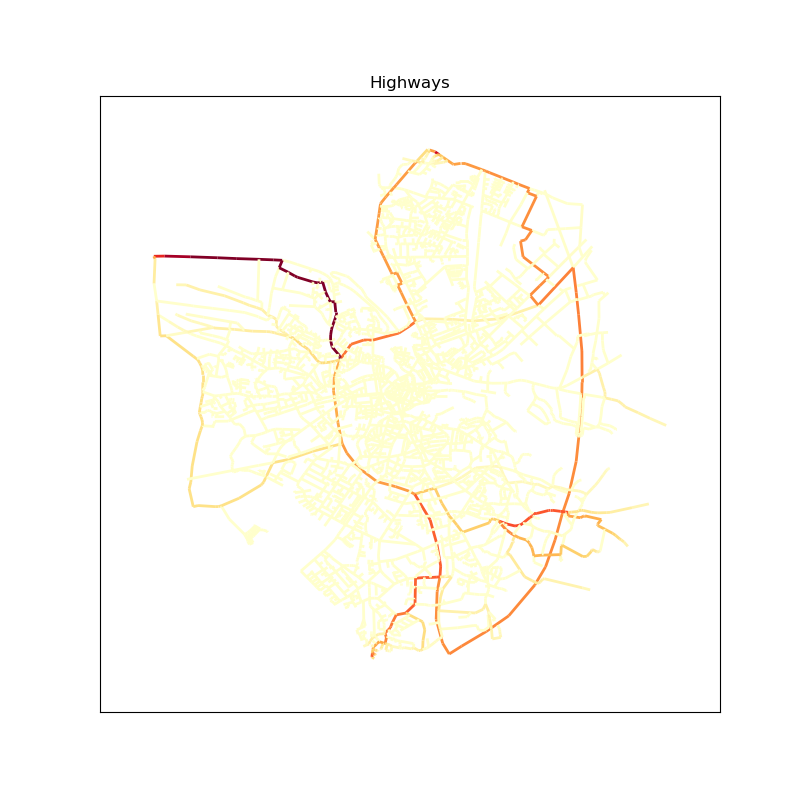
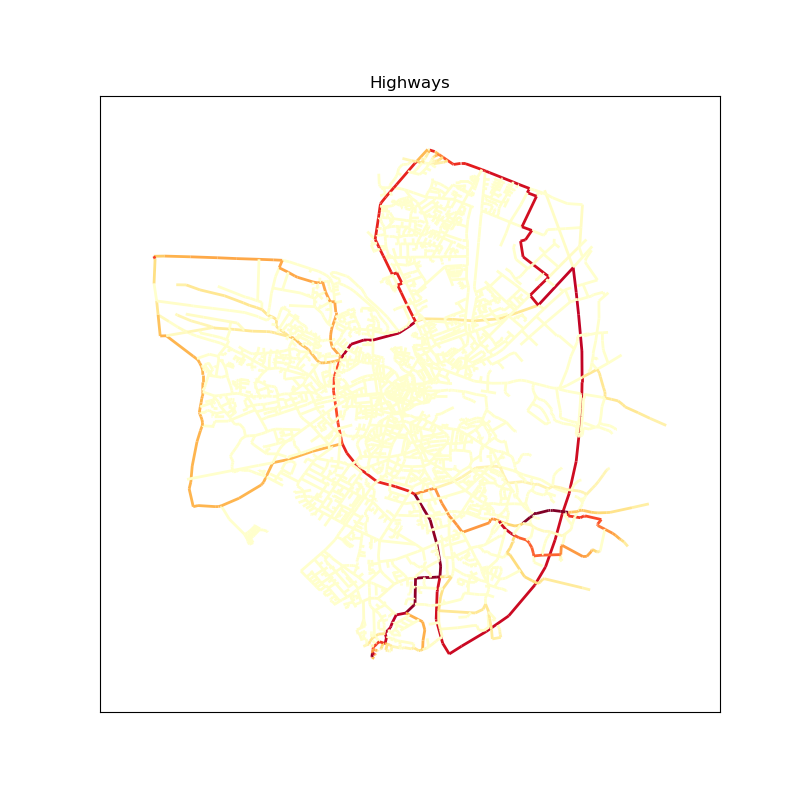
high_value_indices return top max values

diff --git a/Traffic_Inspection.py b/Traffic_Inspection.py
@@ -81,15 +81,21 @@ def plot_city(city_graph, k):
     plt.show()
     # """
 
-def high_value_indices(symmetric_matrix, threshold=100):
+def high_value_indices(symmetric_matrix, top_n=100): #threshold=100):
     # Ensure the matrix is symmetric
     assert (symmetric_matrix == symmetric_matrix.T).all(), "Matrix must be symmetric"
 
     # Find indices where values are higher than the threshold
-    high_value_indices = np.where(np.triu(symmetric_matrix) > threshold)
+    #high_value_indices = np.where(np.triu(symmetric_matrix) > threshold)
+
+    # Find highest n indices
+    top_indices = np.argpartition(symmetric_matrix.flatten(), -top_n)[-top_n:]
+
+    # Convert the flattened indices back to 2D indices
+    top_indices = np.unravel_index(top_indices, symmetric_matrix.shape)
 
     # Convert indices to row and column indices
-    rows, cols = high_value_indices
+    rows, cols = top_indices
 
     return list(zip(rows, cols))
 
@@ -192,9 +198,11 @@ def find_n_shortest_paths(city_graph, node_pairs, plot=False, title=None):
     return heatmap_matrix
 
 
-def generate_graph_highways(city_graph, heatmap_edges):
+def generate_graph_highways(graph, heatmap_edges):
     n = 290 # top n busiest roads to be found
     hw_weight = 4 # default highway weight
+
+    city_graph = graph.copy()
 
     nodes_busiest_streets = high_value_indices(heatmap_edges, n)
 
@@ -235,15 +243,16 @@ def main(plot_graph=True):
     nr_of_agents = 5000
     list_agents = generate_n_agent(furthest_nodes, nr_of_agents)
 
-    print(list_agents)
+    #print(list_agents)
 
     # find n shortest paths through city between two nodes and plot the paths
-    heatmap_edges = find_n_shortest_paths(city_graph, furthest_nodes, plot=True, title="Shortest paths")
+    heatmap_edges = find_n_shortest_paths(city_graph, furthest_nodes, plot=False, title="Shortest paths")
 
     # use heatmap_edges to choose which streets to make highways
     # simulate highways by adding weights to edges (low weight -> highway, higher weight -> street)
     city_graph_hw = generate_graph_highways(city_graph, heatmap_edges)
     heatmap_edges = find_n_shortest_paths(city_graph_hw, furthest_nodes, plot=True, title="Highways")
+    #print(heatmap_edges)
 
 
 
